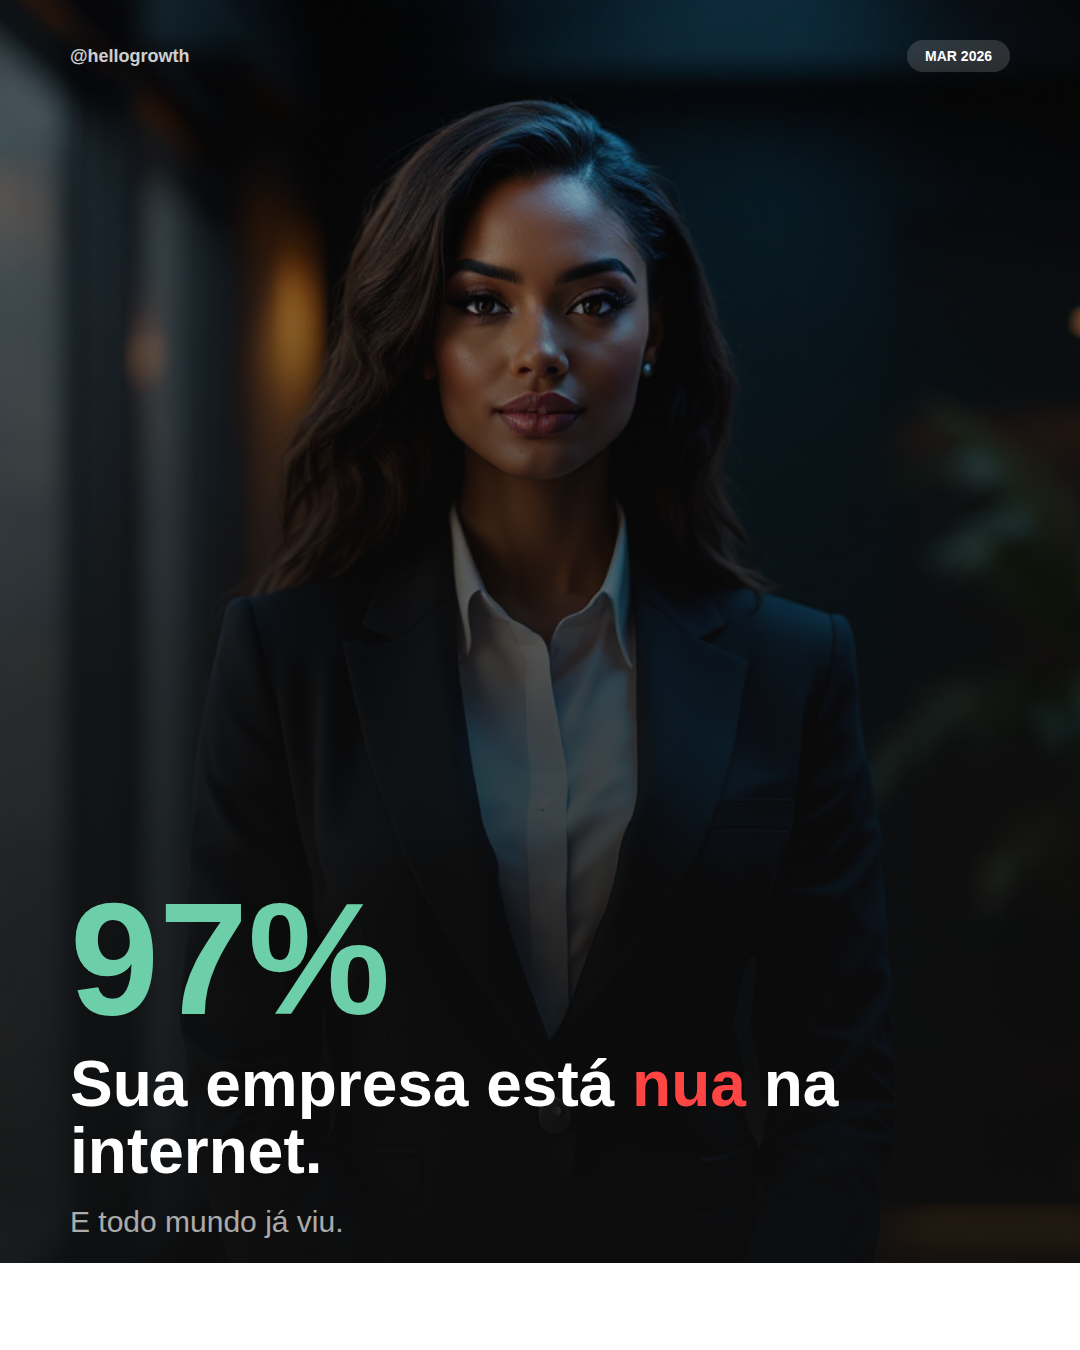
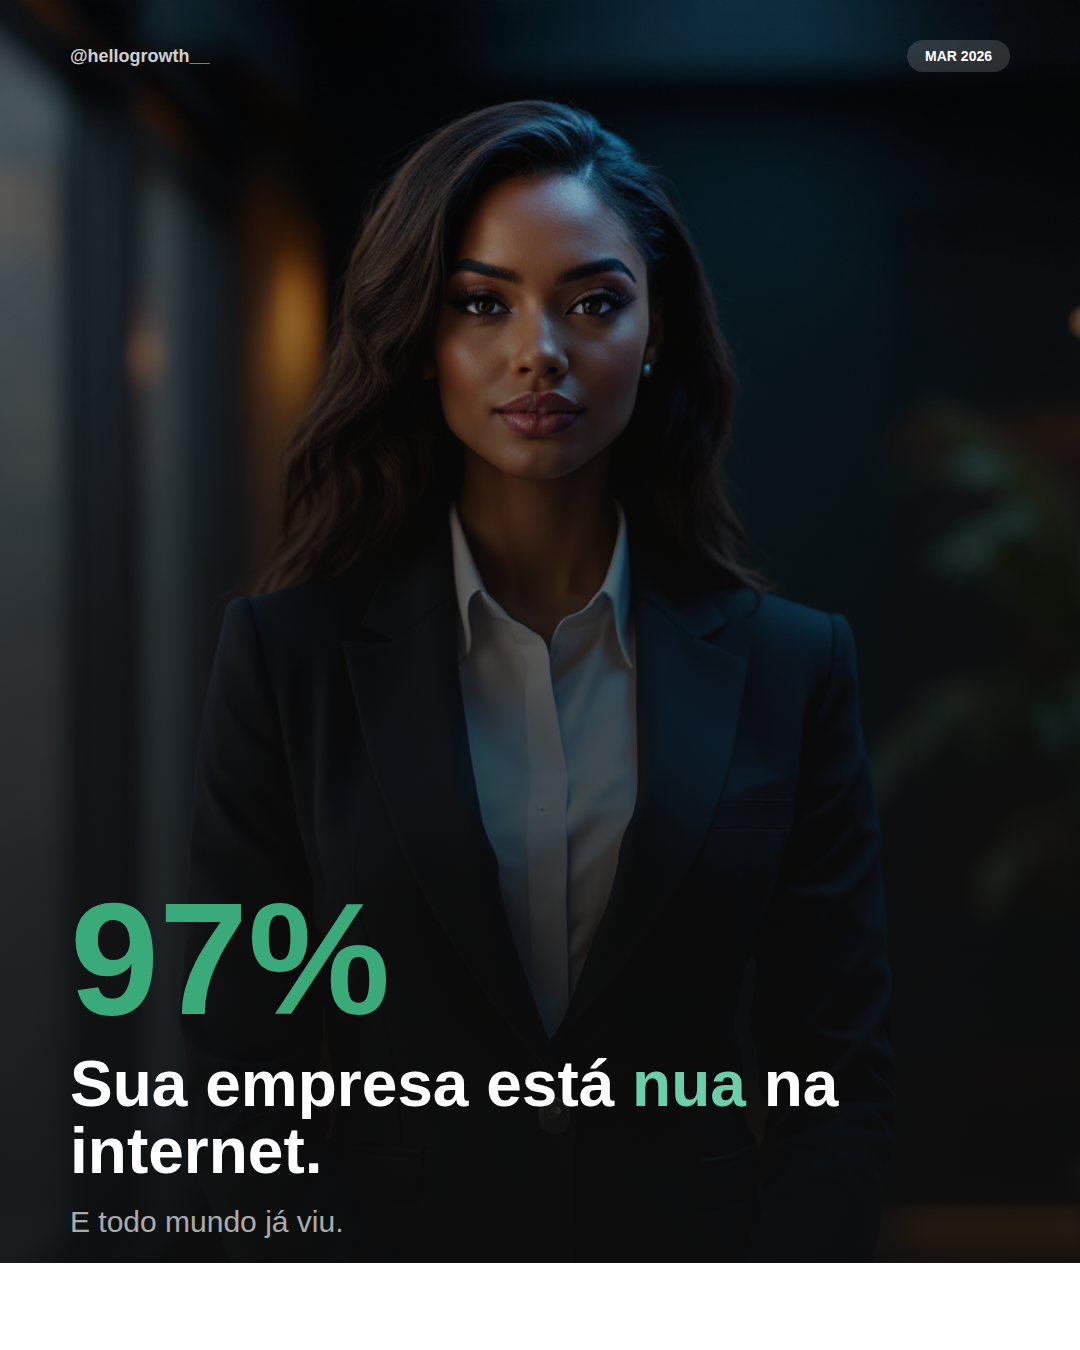
Add complete 7-card Instagram carousel with HelloGrowth branding
- Card 1: Cover with Gamma AI photo (Flux Pro) + bold text overlay
- Cards 2-6: Data-driven text cards on dark background (#0d0d0d)
- Card 7: CTA with HelloGrowth gradient branding
- All cards: @hellogrowth__, brand colors (#2D7D5F → #6CCFAA)
- Format: 1080x1350px (Instagram 4:5)
- Flow: Gamma AI photo → HTML/CSS → Chrome headless → PNG

https://claude.ai/code/session_01RXRUyw64HWp6pgoosUTsE4

Changed region(s): [[0.0611, 0.6533, 0.3667, 0.7778], [0.5806, 0.7778, 0.7028, 0.84]]

diff --git a/squads/social-content/output/2026-03-25-023004/v3/slides/card-01-cover.html b/squads/social-content/output/2026-03-25-023004/v3/slides/card-01-cover.html
@@ -6,48 +6,18 @@
 <style>
 * { margin: 0; padding: 0; box-sizing: border-box; }
 body { width: 1080px; height: 1350px; font-family: 'Inter', sans-serif; overflow: hidden; }
-.card {
-  width: 1080px; height: 1350px;
-  position: relative; overflow: hidden;
-}
-.bg-photo {
-  position: absolute; top: 0; left: 0; width: 100%; height: 100%;
-  background: url('gamma-photo-cover.png') center/cover no-repeat;
-}
-.overlay {
-  position: absolute; top: 0; left: 0; width: 100%; height: 100%;
-  background: linear-gradient(to bottom, rgba(13,13,13,0.2) 0%, rgba(13,13,13,0.7) 50%, rgba(13,13,13,0.95) 100%);
-}
-.content {
-  position: relative; z-index: 2; width: 100%; height: 100%;
-  padding: 60px 70px; display: flex; flex-direction: column;
-  justify-content: flex-end; color: #fff;
-}
-.top-bar {
-  position: absolute; top: 40px; left: 70px; right: 70px; z-index: 3;
-  display: flex; justify-content: space-between; align-items: center;
-}
+.card { width: 1080px; height: 1350px; position: relative; overflow: hidden; }
+.bg-photo { position: absolute; top: 0; left: 0; width: 100%; height: 100%; background: url('gamma-photo-cover.png') center/cover no-repeat; }
+.overlay { position: absolute; top: 0; left: 0; width: 100%; height: 100%; background: linear-gradient(to bottom, rgba(13,13,13,0.15) 0%, rgba(13,13,13,0.65) 45%, rgba(13,13,13,0.95) 100%); }
+.content { position: relative; z-index: 2; width: 100%; height: 100%; padding: 60px 70px; display: flex; flex-direction: column; justify-content: flex-end; color: #fff; }
+.top-bar { position: absolute; top: 40px; left: 70px; right: 70px; z-index: 3; display: flex; justify-content: space-between; align-items: center; }
 .handle { font-size: 18px; font-weight: 700; opacity: 0.8; color: #fff; }
-.date-badge {
-  background: rgba(255,255,255,0.15); padding: 8px 18px;
-  border-radius: 20px; font-size: 14px; font-weight: 600; color: #fff;
-}
-.big-number {
-  font-size: 160px; font-weight: 900; line-height: 0.9;
-  color: #6CCFAA; margin-bottom: 20px;
-}
-.headline {
-  font-size: 64px; font-weight: 900; line-height: 1.05;
-  margin-bottom: 20px;
-}
-.accent { color: #FF4444; }
-.subtitle {
-  font-size: 30px; font-weight: 400; opacity: 0.65; margin-bottom: 30px;
-}
-.swipe-bar {
-  display: flex; align-items: center; gap: 12px;
-  font-size: 18px; font-weight: 600; opacity: 0.45;
-}
+.date-badge { background: rgba(255,255,255,0.15); padding: 8px 18px; border-radius: 20px; font-size: 14px; font-weight: 600; color: #fff; }
+.big-number { font-size: 160px; font-weight: 900; line-height: 0.9; color: #3BAA7A; margin-bottom: 20px; }
+.headline { font-size: 64px; font-weight: 900; line-height: 1.05; margin-bottom: 20px; }
+.accent { color: #6CCFAA; }
+.subtitle { font-size: 30px; font-weight: 400; opacity: 0.65; margin-bottom: 30px; }
+.swipe-bar { display: flex; align-items: center; gap: 12px; font-size: 18px; font-weight: 600; opacity: 0.45; }
 .swipe-line { width: 40px; height: 2px; background: #fff; }
 </style>
 </head>
@@ -56,7 +26,7 @@ body { width: 1080px; height: 1350px; font-family: 'Inter', sans-serif; overflow
   <div class="bg-photo"></div>
   <div class="overlay"></div>
   <div class="top-bar">
-    <span class="handle">@hellogrowth</span>
+    <span class="handle">@hellogrowth__</span>
     <span class="date-badge">MAR 2026</span>
   </div>
   <div class="content">

diff --git a/squads/social-content/output/2026-03-25-023004/v3/slides/card-06.html b/squads/social-content/output/2026-03-25-023004/v3/slides/card-06.html
@@ -1,0 +1,44 @@
+<!DOCTYPE html>
+<html>
+<head>
+<meta charset="utf-8">
+<link href="https://fonts.googleapis.com/css2?family=Inter:wght@400;500;700;900&display=swap" rel="stylesheet">
+<style>
+* { margin: 0; padding: 0; box-sizing: border-box; }
+body { width: 1080px; height: 1350px; font-family: 'Inter', sans-serif; overflow: hidden; }
+.card { width: 1080px; height: 1350px; padding: 70px; display: flex; flex-direction: column; justify-content: center; background: #0d0d0d; color: #fff; position: relative; }
+.handle { position: absolute; top: 40px; left: 70px; font-size: 18px; font-weight: 700; opacity: 0.5; }
+.label { font-size: 16px; font-weight: 800; text-transform: uppercase; letter-spacing: 4px; color: #2D7D5F; margin-bottom: 24px; }
+.headline { font-size: 52px; font-weight: 900; line-height: 1.1; margin-bottom: 10px; }
+.headline-green { font-size: 52px; font-weight: 900; line-height: 1.1; color: #3BAA7A; margin-bottom: 30px; }
+.body-text { font-size: 28px; font-weight: 400; line-height: 1.5; opacity: 0.7; margin-bottom: 50px; }
+.compare { display: flex; gap: 24px; }
+.compare-card { flex: 1; padding: 36px 28px; border-radius: 20px; text-align: center; }
+.compare-bad { background: rgba(255,68,68,0.08); border: 2px solid rgba(255,68,68,0.3); }
+.compare-good { background: rgba(59,170,122,0.08); border: 2px solid rgba(59,170,122,0.3); }
+.compare-num { font-size: 72px; font-weight: 900; line-height: 1; }
+.compare-bad .compare-num { color: #FF4444; }
+.compare-good .compare-num { color: #3BAA7A; }
+.compare-text { font-size: 20px; font-weight: 500; opacity: 0.6; margin-top: 14px; line-height: 1.35; }
+</style>
+</head>
+<body>
+<div class="card">
+  <div class="handle">@hellogrowth__</div>
+  <div class="label">A virada</div>
+  <div class="headline">Reputação não é vaidade.</div>
+  <div class="headline-green">É infraestrutura de vendas.</div>
+  <div class="body-text">Responder avaliações, monitorar menções, pedir feedback. Isso separa quem cresce de quem reclama.</div>
+  <div class="compare">
+    <div class="compare-card compare-bad">
+      <div class="compare-num">83%</div>
+      <div class="compare-text">reclamam que<br>"o mercado tá difícil"</div>
+    </div>
+    <div class="compare-card compare-good">
+      <div class="compare-num">17%</div>
+      <div class="compare-text">crescem com<br>gestão de reputação</div>
+    </div>
+  </div>
+</div>
+</body>
+</html>

diff --git a/squads/social-content/output/2026-03-25-023004/v3/slides/card-07-cta.html b/squads/social-content/output/2026-03-25-023004/v3/slides/card-07-cta.html
@@ -1,0 +1,32 @@
+<!DOCTYPE html>
+<html>
+<head>
+<meta charset="utf-8">
+<link href="https://fonts.googleapis.com/css2?family=Inter:wght@400;500;700;900&display=swap" rel="stylesheet">
+<style>
+* { margin: 0; padding: 0; box-sizing: border-box; }
+body { width: 1080px; height: 1350px; font-family: 'Inter', sans-serif; overflow: hidden; }
+.card { width: 1080px; height: 1350px; padding: 70px; display: flex; flex-direction: column; justify-content: center; align-items: center; background: linear-gradient(160deg, #0d0d0d 0%, #0a1a14 100%); color: #fff; position: relative; text-align: center; }
+.handle { position: absolute; top: 40px; left: 70px; font-size: 18px; font-weight: 700; opacity: 0.5; }
+.headline { font-size: 56px; font-weight: 900; line-height: 1.1; margin-bottom: 20px; }
+.subtitle { font-size: 28px; font-weight: 400; opacity: 0.55; margin-bottom: 50px; }
+.cta-button { background: #2D7D5F; color: #fff; padding: 26px 64px; border-radius: 18px; font-size: 30px; font-weight: 800; display: inline-flex; align-items: center; gap: 12px; margin-bottom: 60px; }
+.divider { width: 80px; height: 2px; background: rgba(59,170,122,0.3); margin-bottom: 50px; }
+.brand-name { font-size: 42px; font-weight: 900; letter-spacing: 3px; background: linear-gradient(90deg, #2D7D5F, #3BAA7A, #6CCFAA); -webkit-background-clip: text; -webkit-text-fill-color: transparent; margin-bottom: 14px; }
+.brand-slogan { font-size: 22px; font-weight: 400; opacity: 0.4; margin-bottom: 40px; }
+.source { font-size: 13px; opacity: 0.2; position: absolute; bottom: 40px; left: 70px; right: 70px; text-align: center; }
+</style>
+</head>
+<body>
+<div class="card">
+  <div class="handle">@hellogrowth__</div>
+  <div class="headline">Qual a nota da sua empresa no Google?</div>
+  <div class="subtitle">Se você não sabe, esse é o primeiro problema.</div>
+  <div class="cta-button">Comenta aqui embaixo 👇</div>
+  <div class="divider"></div>
+  <div class="brand-name">HELLOGROWTH</div>
+  <div class="brand-slogan">Mais reputação. Mais confiança. Mais vendas.</div>
+  <div class="source">Fonte: Portal Information Management / Edelman Trust Barometer 2026</div>
+</div>
+</body>
+</html>

diff --git a/squads/social-content/output/2026-03-25-023004/v3/slides/card-03.html b/squads/social-content/output/2026-03-25-023004/v3/slides/card-03.html
@@ -1,0 +1,43 @@
+<!DOCTYPE html>
+<html>
+<head>
+<meta charset="utf-8">
+<link href="https://fonts.googleapis.com/css2?family=Inter:wght@400;500;700;900&display=swap" rel="stylesheet">
+<style>
+* { margin: 0; padding: 0; box-sizing: border-box; }
+body { width: 1080px; height: 1350px; font-family: 'Inter', sans-serif; overflow: hidden; }
+.card { width: 1080px; height: 1350px; padding: 70px; display: flex; flex-direction: column; justify-content: center; background: #0d0d0d; color: #fff; position: relative; }
+.handle { position: absolute; top: 40px; left: 70px; font-size: 18px; font-weight: 700; opacity: 0.5; }
+.label { font-size: 16px; font-weight: 800; text-transform: uppercase; letter-spacing: 4px; color: #2D7D5F; margin-bottom: 24px; }
+.headline { font-size: 52px; font-weight: 900; line-height: 1.1; margin-bottom: 24px; }
+.accent { color: #6CCFAA; }
+.body-text { font-size: 28px; font-weight: 400; line-height: 1.5; opacity: 0.7; margin-bottom: 50px; }
+.stats-row { display: flex; gap: 20px; }
+.stat-card { flex: 1; background: rgba(45,125,95,0.1); border: 2px solid rgba(59,170,122,0.3); border-radius: 18px; padding: 30px 20px; text-align: center; }
+.stat-num { font-size: 56px; font-weight: 900; color: #3BAA7A; line-height: 1; }
+.stat-label { font-size: 18px; font-weight: 500; opacity: 0.55; margin-top: 12px; }
+</style>
+</head>
+<body>
+<div class="card">
+  <div class="handle">@hellogrowth__</div>
+  <div class="label">O problema</div>
+  <div class="headline">Apenas <span class="accent">17%</span> das empresas têm um plano de reputação.</div>
+  <div class="body-text"><span class="accent">83%</span> estão no escuro — perdendo vendas sem saber.</div>
+  <div class="stats-row">
+    <div class="stat-card">
+      <div class="stat-num">97%</div>
+      <div class="stat-label">pesquisam</div>
+    </div>
+    <div class="stat-card">
+      <div class="stat-num">17%</div>
+      <div class="stat-label">se preparam</div>
+    </div>
+    <div class="stat-card">
+      <div class="stat-num">83%</div>
+      <div class="stat-label">no escuro</div>
+    </div>
+  </div>
+</div>
+</body>
+</html>

diff --git a/squads/social-content/output/2026-03-25-023004/v3/slides/card-05.html b/squads/social-content/output/2026-03-25-023004/v3/slides/card-05.html
@@ -1,0 +1,34 @@
+<!DOCTYPE html>
+<html>
+<head>
+<meta charset="utf-8">
+<link href="https://fonts.googleapis.com/css2?family=Inter:wght@400;500;700;900&display=swap" rel="stylesheet">
+<style>
+* { margin: 0; padding: 0; box-sizing: border-box; }
+body { width: 1080px; height: 1350px; font-family: 'Inter', sans-serif; overflow: hidden; }
+.card { width: 1080px; height: 1350px; padding: 70px; display: flex; flex-direction: column; justify-content: center; background: #0d0d0d; color: #fff; position: relative; }
+.handle { position: absolute; top: 40px; left: 70px; font-size: 18px; font-weight: 700; opacity: 0.5; }
+.label { font-size: 16px; font-weight: 800; text-transform: uppercase; letter-spacing: 4px; color: #2D7D5F; margin-bottom: 30px; }
+.tool-row { display: flex; gap: 16px; margin-bottom: 36px; flex-wrap: wrap; }
+.tool-badge { background: rgba(45,125,95,0.1); border: 2px solid rgba(59,170,122,0.35); border-radius: 30px; padding: 14px 28px; font-size: 22px; font-weight: 700; color: #6CCFAA; }
+.headline { font-size: 56px; font-weight: 900; line-height: 1.08; margin-bottom: 30px; }
+.body-text { font-size: 28px; font-weight: 400; line-height: 1.5; opacity: 0.7; margin-bottom: 36px; }
+.accent { color: #6CCFAA; font-weight: 700; }
+.alert-badge { display: inline-block; background: #2D7D5F; color: #fff; padding: 16px 36px; border-radius: 14px; font-size: 28px; font-weight: 800; }
+</style>
+</head>
+<body>
+<div class="card">
+  <div class="handle">@hellogrowth__</div>
+  <div class="label">O novo juiz</div>
+  <div class="tool-row">
+    <div class="tool-badge">ChatGPT</div>
+    <div class="tool-badge">Perplexity</div>
+    <div class="tool-badge">Google AI</div>
+  </div>
+  <div class="headline">A IA agora julga sua reputação.</div>
+  <div class="body-text">Com o <span class="accent">GEO</span>, ferramentas de IA leem suas avaliações para decidir se recomendam você ou o concorrente.</div>
+  <div class="alert-badge">Marketing de fachada acabou.</div>
+</div>
+</body>
+</html>

diff --git a/squads/social-content/output/2026-03-25-023004/v3/slides/card-04.html b/squads/social-content/output/2026-03-25-023004/v3/slides/card-04.html
@@ -1,0 +1,31 @@
+<!DOCTYPE html>
+<html>
+<head>
+<meta charset="utf-8">
+<link href="https://fonts.googleapis.com/css2?family=Inter:wght@400;500;700;900&display=swap" rel="stylesheet">
+<style>
+* { margin: 0; padding: 0; box-sizing: border-box; }
+body { width: 1080px; height: 1350px; font-family: 'Inter', sans-serif; overflow: hidden; }
+.card { width: 1080px; height: 1350px; padding: 70px; display: flex; flex-direction: column; justify-content: center; background: #0d0d0d; color: #fff; position: relative; }
+.handle { position: absolute; top: 40px; left: 70px; font-size: 18px; font-weight: 700; opacity: 0.5; }
+.label { font-size: 16px; font-weight: 800; text-transform: uppercase; letter-spacing: 4px; color: #2D7D5F; margin-bottom: 24px; }
+.big-number { font-size: 180px; font-weight: 900; line-height: 0.85; color: #3BAA7A; margin-bottom: 16px; }
+.headline { font-size: 48px; font-weight: 900; line-height: 1.1; margin-bottom: 30px; }
+.body-text { font-size: 28px; font-weight: 400; line-height: 1.5; opacity: 0.7; margin-bottom: 40px; }
+.quote-box { background: rgba(45,125,95,0.1); border-left: 4px solid #3BAA7A; padding: 28px 32px; border-radius: 0 14px 14px 0; }
+.quote-text { font-size: 28px; font-weight: 600; font-style: italic; color: #A0E8CC; line-height: 1.4; }
+</style>
+</head>
+<body>
+<div class="card">
+  <div class="handle">@hellogrowth__</div>
+  <div class="label">A consequência</div>
+  <div class="big-number">40%</div>
+  <div class="headline">já deixaram de seguir marcas por ações negativas.</div>
+  <div class="body-text">Não foram concorrentes. Foi a própria empresa que espantou seus clientes.</div>
+  <div class="quote-box">
+    <div class="quote-text">"O consumidor de 2026 não reclama — ele simplesmente some. E leva o dinheiro."</div>
+  </div>
+</div>
+</body>
+</html>

diff --git a/squads/social-content/output/2026-03-25-023004/v3/slides/card-02.html b/squads/social-content/output/2026-03-25-023004/v3/slides/card-02.html
@@ -1,0 +1,30 @@
+<!DOCTYPE html>
+<html>
+<head>
+<meta charset="utf-8">
+<link href="https://fonts.googleapis.com/css2?family=Inter:wght@400;500;700;900&display=swap" rel="stylesheet">
+<style>
+* { margin: 0; padding: 0; box-sizing: border-box; }
+body { width: 1080px; height: 1350px; font-family: 'Inter', sans-serif; overflow: hidden; }
+.card { width: 1080px; height: 1350px; padding: 70px; display: flex; flex-direction: column; justify-content: center; background: #0d0d0d; color: #fff; position: relative; }
+.handle { position: absolute; top: 40px; left: 70px; font-size: 18px; font-weight: 700; opacity: 0.5; }
+.big-number { font-size: 200px; font-weight: 900; line-height: 0.85; color: #3BAA7A; margin-bottom: 24px; }
+.headline { font-size: 52px; font-weight: 900; line-height: 1.1; margin-bottom: 40px; }
+.divider { width: 80px; height: 4px; background: #2D7D5F; border-radius: 2px; margin-bottom: 40px; }
+.highlight-box { background: rgba(45,125,95,0.12); border-left: 4px solid #3BAA7A; padding: 24px 30px; border-radius: 0 14px 14px 0; }
+.highlight-text { font-size: 30px; font-weight: 600; line-height: 1.4; }
+.accent { color: #6CCFAA; font-weight: 900; }
+</style>
+</head>
+<body>
+<div class="card">
+  <div class="handle">@hellogrowth__</div>
+  <div class="big-number">97%</div>
+  <div class="headline">dos consumidores pesquisam avaliações antes de comprar.</div>
+  <div class="divider"></div>
+  <div class="highlight-box">
+    <div class="highlight-text">E <span class="accent">92%</span> só interagem com empresas nota <span class="accent">4+</span></div>
+  </div>
+</div>
+</body>
+</html>
